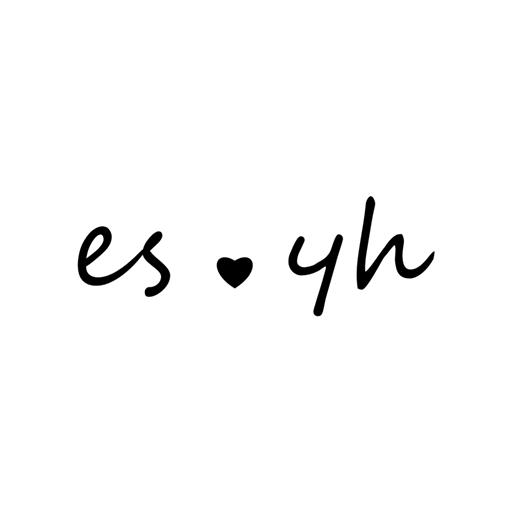
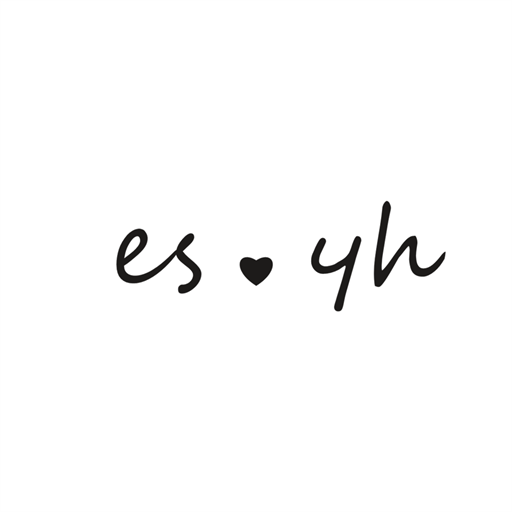
홈 화면 아이콘도 하트를 정중앙에

Changed region(s): [[0.5625, 0.375, 0.875, 0.625], [0.125, 0.4375, 0.5312, 0.5938]]

diff --git a/index.html b/index.html
@@ -10,9 +10,10 @@
 <meta name="apple-mobile-web-app-title" content="우리">
 <meta name="apple-mobile-web-app-status-bar-style" content="default">
 <meta name="theme-color" content="#f6f4ef">
-<link rel="apple-touch-icon" href="apple-touch-icon.png">
-<link rel="icon" type="image/png" href="favicon.png">
-<link rel="manifest" href="manifest.webmanifest">
+<!-- ?v= 는 아이콘을 바꿀 때마다 올린다 -->
+<link rel="apple-touch-icon" href="apple-touch-icon.png?v=2">
+<link rel="icon" type="image/png" href="favicon.png?v=2">
+<link rel="manifest" href="manifest.webmanifest?v=2">
 <style>
   html, body { margin: 0; height: 100%; background: #f6f4ef; }
   /* 앱스 스크립트 웹앱을 화면 전체에 깐다. 이렇게 넣으면 구글 안내 배너가 안 뜬다. */
